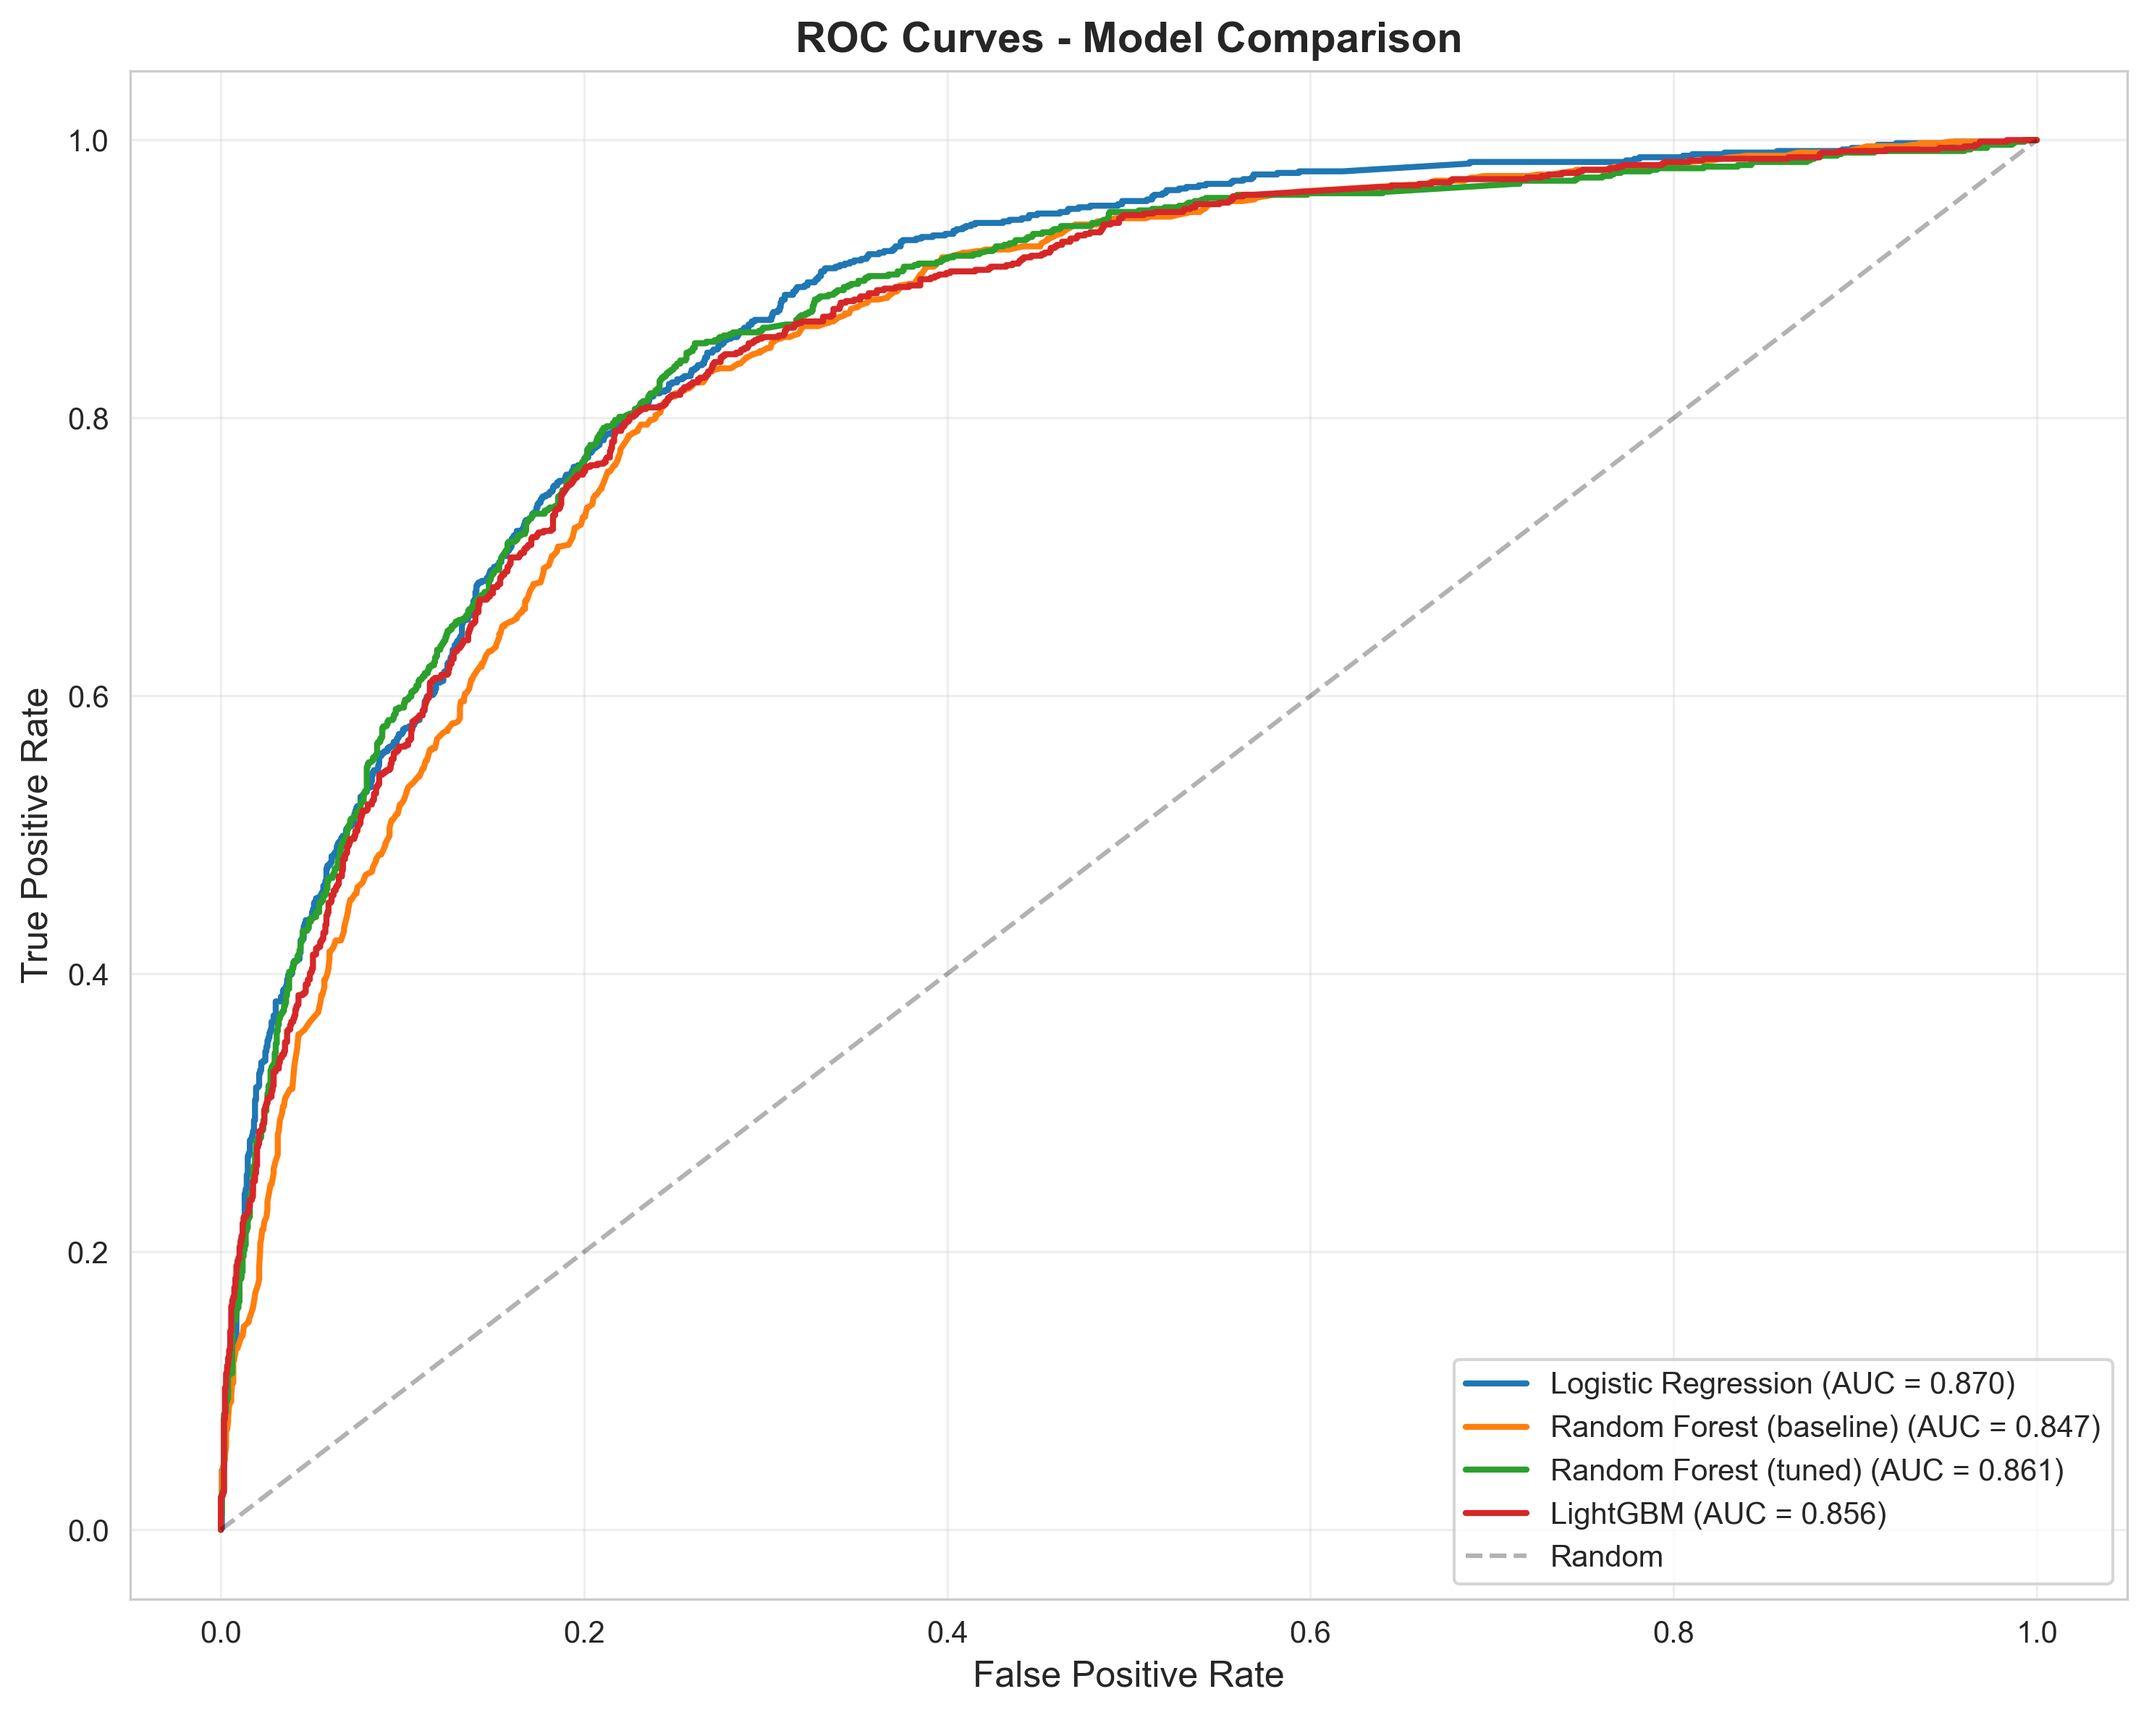
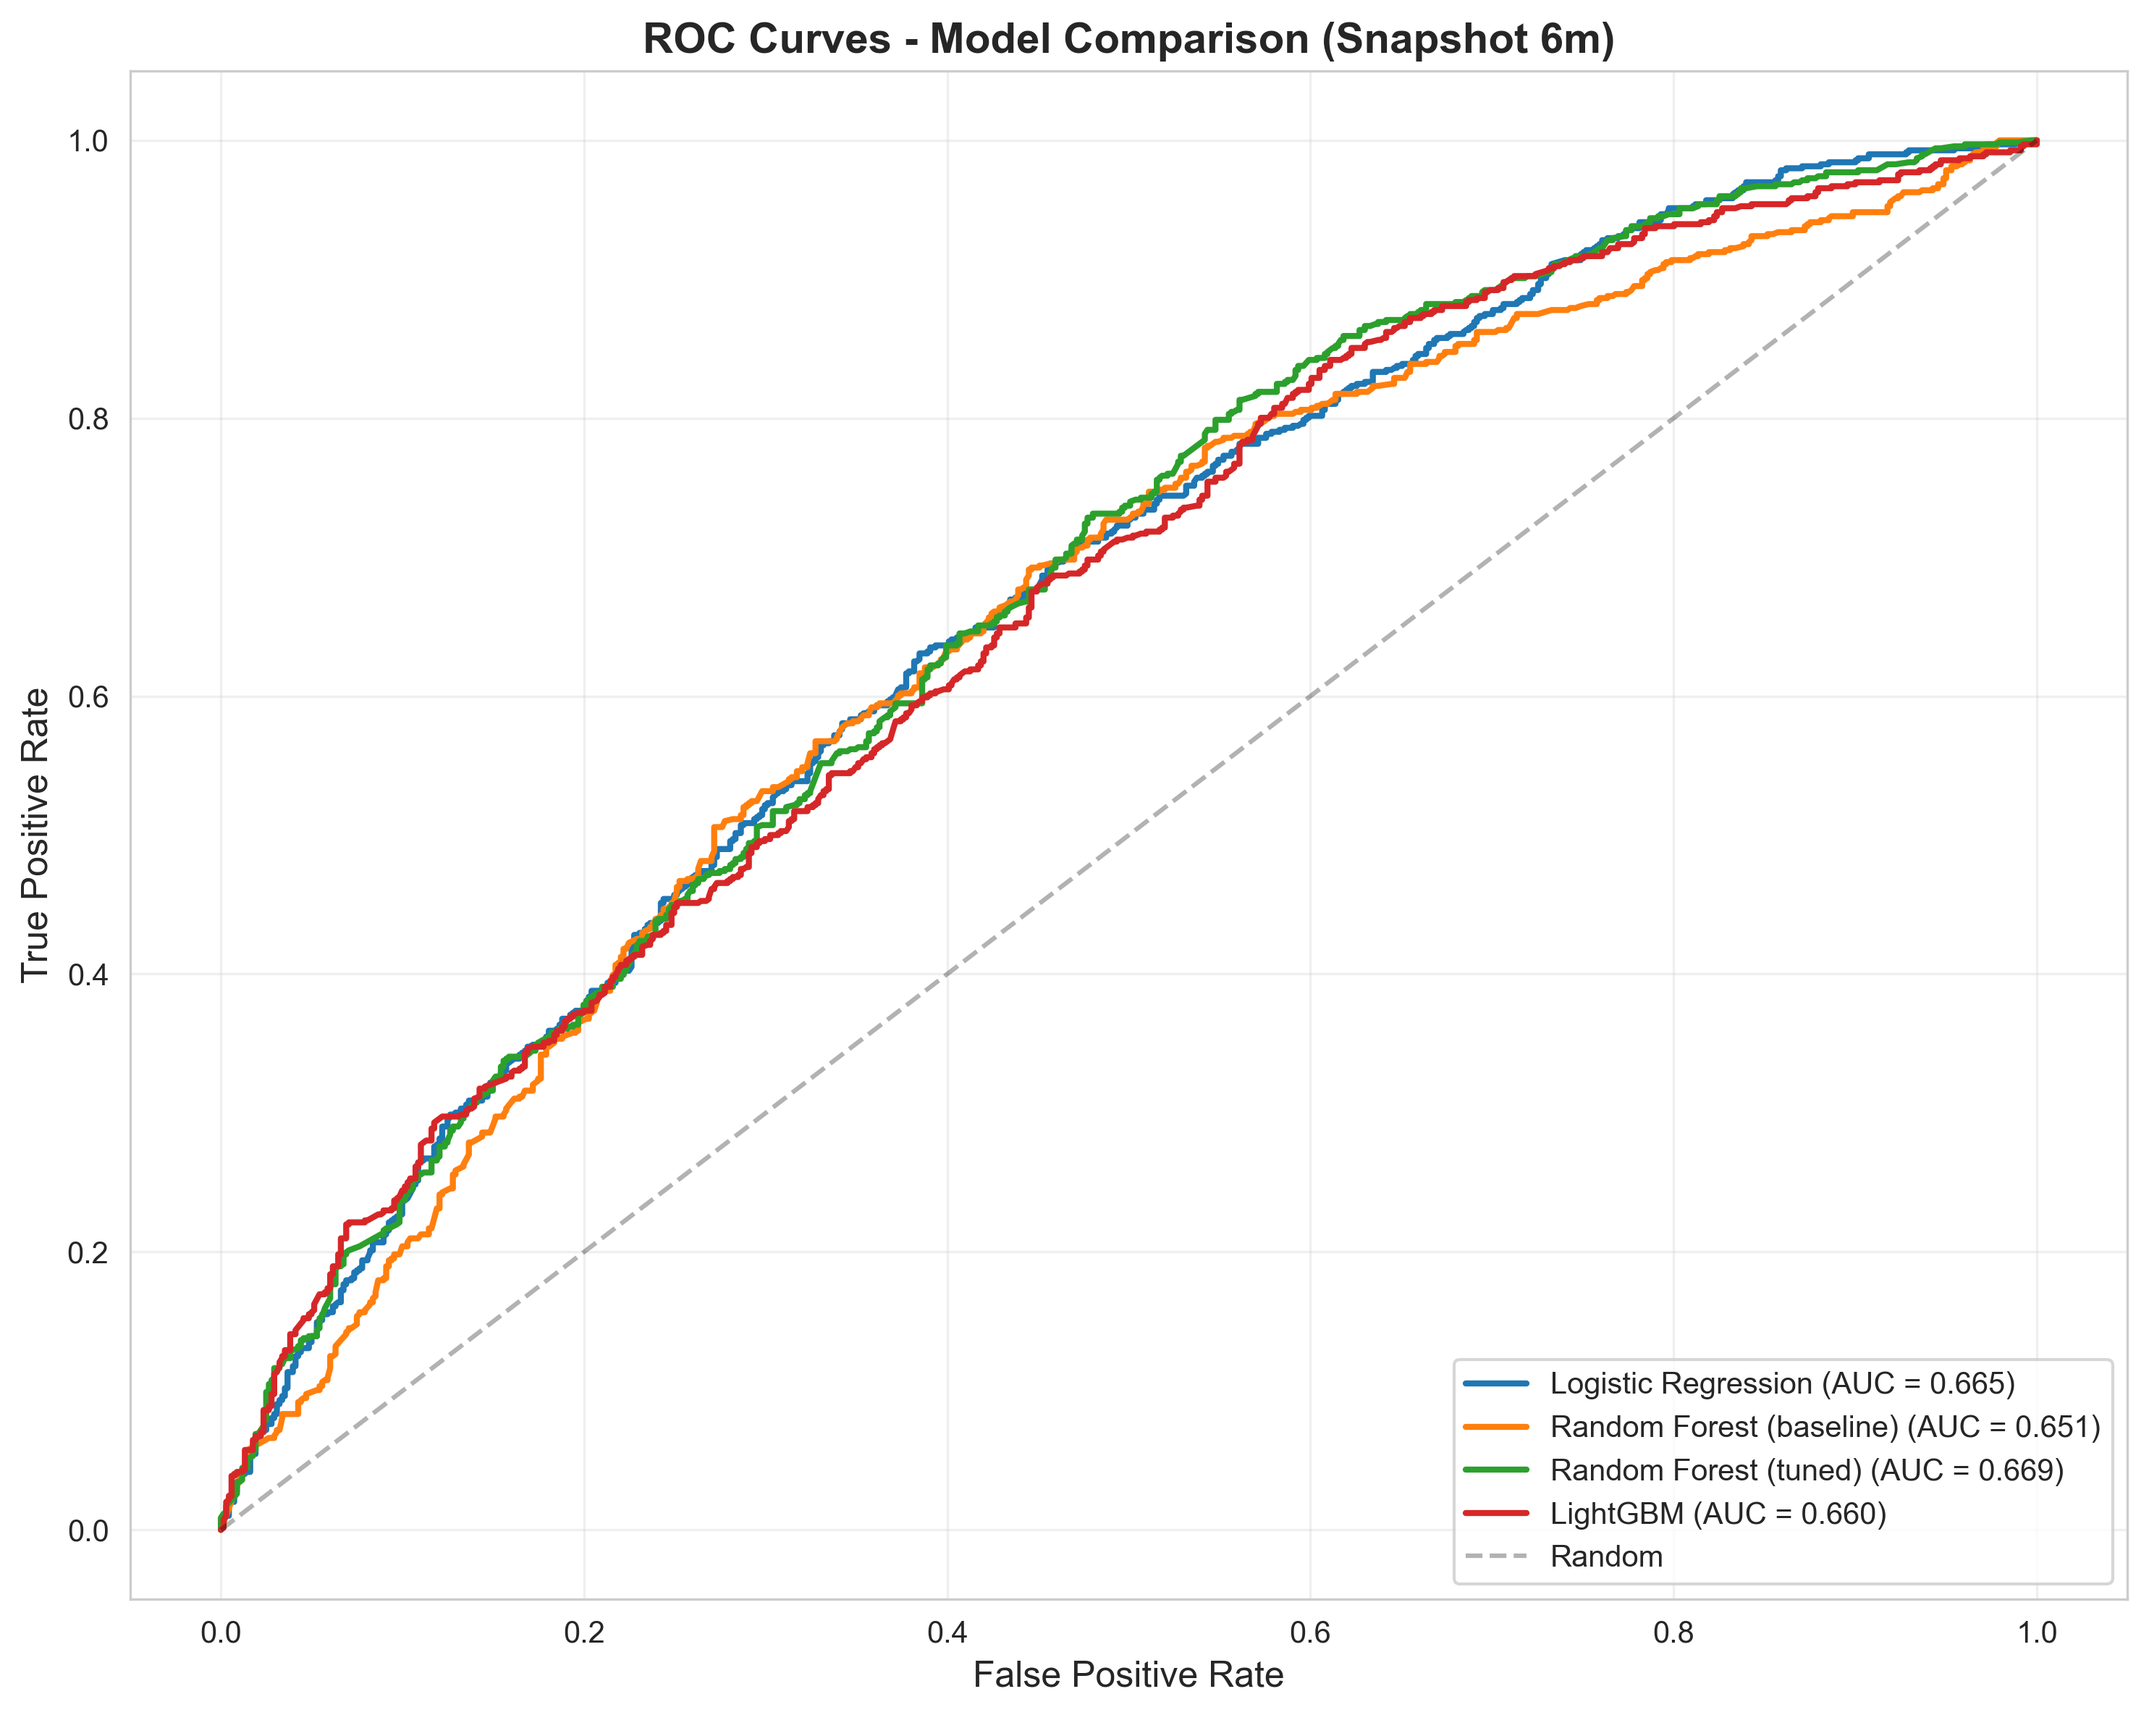
Lastest version

Changed region(s): [[0.093, 0.0625, 0.9606, 0.9059], [0.2789, 0.0, 0.7437, 0.0312]]

diff --git a/plots.py b/plots.py
@@ -313,7 +313,19 @@ def main():
         print("\n❌ No models found. Please run main.py first to train models.")
         return
 
-    X_test, y_test = prepare_data(cutoff_date="2013-01-01")
+    # Use the same cutoff logic as main.py
+    from src.config import PROCESSED_DATA_PATH
+    import pandas as pd
+    
+    # Auto-cutoff based on snapshot_date quantile (same as main.py)
+    df_cutoff = pd.read_csv(PROCESSED_DATA_PATH)
+    s = pd.to_datetime(df_cutoff["snapshot_date"], errors="coerce").dropna().sort_values()
+    cutoff_ts = pd.to_datetime(s.quantile(0.80)).normalize()
+    cutoff_date = cutoff_ts.date().isoformat()
+    
+    print(f"  ✓ Using auto cutoff_date (80/20): {cutoff_date}")
+    
+    X_test, y_test = prepare_data(cutoff_date=cutoff_date)
 
     plot_roc_comparison(models_dict, X_test, y_test)
     plot_pr_comparison(models_dict, X_test, y_test)
@@ -329,4 +341,3 @@ def main():
 
 if __name__ == "__main__":
     main()
-au
